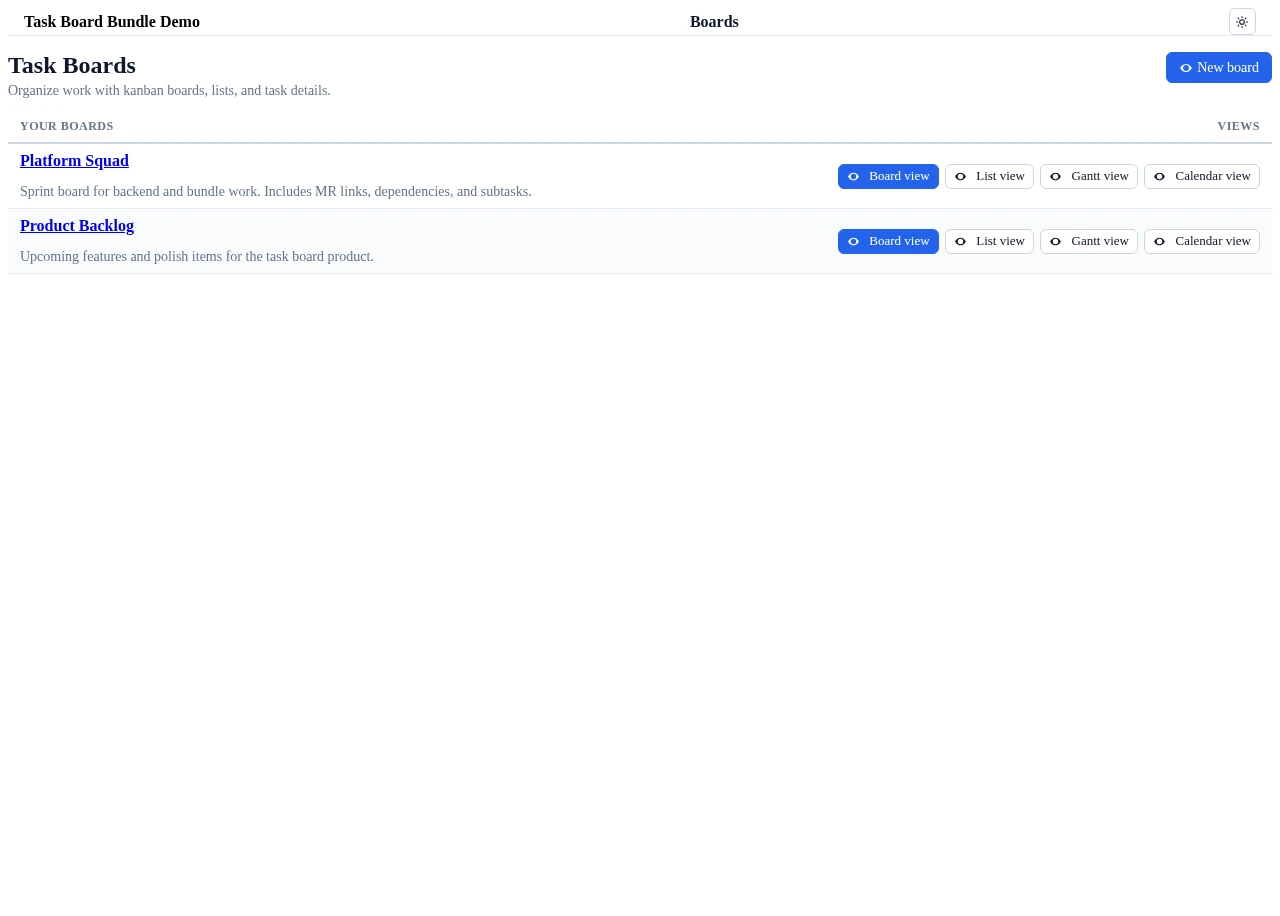
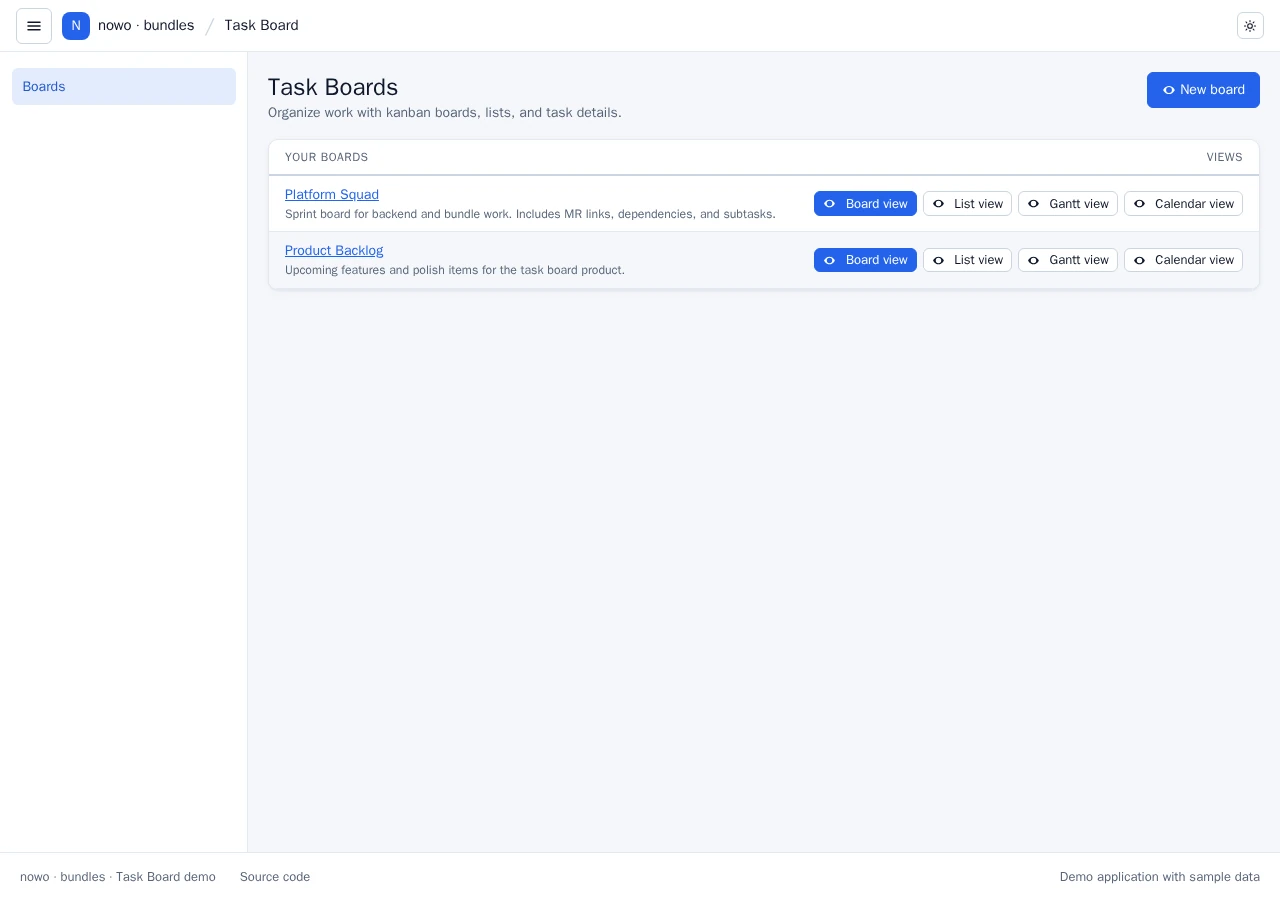
chore(demo): run the demo in UiKit's demo platform shell

diff --git a/demo/symfony8/e2e/tests/demo-platform.spec.ts b/demo/symfony8/e2e/tests/demo-platform.spec.ts
@@ -1,0 +1,200 @@
+import { test, expect, type Page } from '@playwright/test';
+import AxeBuilder from '@axe-core/playwright';
+
+/**
+ * UiKit demo platform shell (REQ-DEMO-014): layout grammar, demo styles, host theme tokens, framework classes, the
+ * closed phone drawer, 44 px touch targets and input borders on every demo page, plus axe (wcag2a / 2aa / 21a / 21aa,
+ * serious + critical = 0) in light and dark, desktop and phone, and the keyboard drawer pass.
+ */
+type Theme = 'light' | 'dark';
+type PageEntry = string | ((page: Page) => Promise<string>);
+
+async function prepare(_page: Page): Promise<void> {}
+
+/** The seeded "Platform Squad" board (ids change on every reseed) and its list / calendar views. */
+async function boardPath(page: Page): Promise<string> {
+  await page.goto('/tools/task-board');
+  await page.getByRole('link', { name: /Platform Squad/ }).first().click();
+  await page.locator('.nowo-task-board').waitFor();
+  return new URL(page.url()).pathname;
+}
+async function listPath(page: Page): Promise<string> {
+  return `${await boardPath(page)}/list`;
+}
+async function calendarPath(page: Page): Promise<string> {
+  return `${await boardPath(page)}/calendar`;
+}
+async function taskPath(page: Page): Promise<string> {
+  await boardPath(page);
+  await page.locator('.nowo-task-card__title').first().click();
+  await page.locator('.nowo-task-page').waitFor();
+  return new URL(page.url()).pathname;
+}
+
+
+async function setTheme(page: Page, theme: Theme): Promise<void> {
+  await page.evaluate((t) => {
+    document.documentElement.setAttribute('data-theme', t);
+    document.documentElement.setAttribute('data-bs-theme', t);
+  }, theme);
+}
+
+async function axe(page: Page): Promise<string[]> {
+  const result = await new AxeBuilder({ page }).withTags(['wcag2a', 'wcag2aa', 'wcag21a', 'wcag21aa']).exclude('.sf-toolbar').analyze();
+  return result.violations
+    .filter((v) => v.impact === 'serious' || v.impact === 'critical')
+    .map((v) => `${v.id}: ${v.nodes.map((n) => n.target.join(' ')).join(', ')}`);
+}
+
+/** The demo layout + style rules (docs/USAGE.md "Demo platform shell"; same function as the rollout brief's spec): layout grammar,
+ * no demo styles / host tokens / framework classes, closed drawer inert, 44 px targets on coarse pointers, input borders 3:1. */
+/* eslint-disable */
+// prettier-ignore
+function demoPlatformRules(): string[] {
+  const issues = [];
+  const main = document.querySelector('#nowo-ui-content');
+  const shell = document.querySelector('[data-testid="demo-platform"]');
+  if (!main || !shell) return ['no-demo-platform-shell'];
+  const visible = (el) => !!(el.offsetWidth || el.offsetHeight || el.getClientRects().length);
+  const carded = (el) => el.closest('.nowo-ui-card, [data-nowo-ui-region="table"], [data-nowo-ui-region="form"], .nowo-ui-form-panel, dialog');
+  const skip = (el) => el.closest('dialog, [data-nowo-ui-region="filters"], .nowo-ui-filters, .nowo-ui-page-header');
+
+  // Layout grammar.
+  main.querySelectorAll('table').forEach((t) => { if (!carded(t)) issues.push('table-outside-card'); });
+  main.querySelectorAll('form').forEach((f) => {
+    if (f.querySelector('input:not([type="hidden"]), select, textarea') && !carded(f) && !skip(f) && !f.closest('table')) issues.push('form-outside-card');
+  });
+  const primaries = [...main.querySelectorAll('.nowo-ui-btn--primary')].filter((b) => visible(b) && !b.closest('table, dialog, [data-nowo-ui-region="filters"], .nowo-ui-filters, form'));
+  if (primaries.length > 1) issues.push(`primary-buttons:${primaries.length}`);
+  const header = main.querySelector('.nowo-ui-page-header');
+  const flashes = main.querySelector('.nowo-ui-flashes');
+  if (header && flashes && (flashes.compareDocumentPosition(header) & Node.DOCUMENT_POSITION_FOLLOWING)) issues.push('flashes-before-page-header');
+  if (document.documentElement.scrollWidth > document.documentElement.clientWidth + 1) issues.push('page-scrolls-horizontally');
+
+  // Styles: no demo styles, no host theme tokens, no CDN / foreign stylesheet, no framework classes inside the shell.
+  document.querySelectorAll('style').forEach((s) => {
+    if (s.matches('[data-nowo-ui-theme-tokens], [data-nowo-ui-appearance]')) { issues.push('host-theme-tokens'); return; }
+    if (!/sf-toolbar|sfwdt|sf-minitoolbar|sf-display/.test(s.textContent || '') && !s.closest('[id^="sfwdt"], .sf-toolbar')) issues.push('style-element');
+  });
+  document.querySelectorAll('link[rel="stylesheet"]').forEach((l) => {
+    const path = new URL(l.href, location.href).pathname;
+    if (!path.startsWith('/bundles/') && !path.startsWith('/_wdt/') && !path.startsWith('/_profiler/')) issues.push(`stylesheet:${path}`);
+  });
+  const framework = /^(acme-.*|nav-tabs|nav-link|nav-item|alert|alert-.*|form-check.*|form-control|form-select|form-label|btn|btn-.*|card|card-.*|badge|row|col|col-.*|table|table-.*)$/;
+  shell.querySelectorAll('[class]').forEach((el) => {
+    for (const c of el.classList) { if (framework.test(c)) { issues.push(`framework-class:${c}`); break; } }
+  });
+
+  // Drawer: below 901 px a closed drawer is inert and the burger says so.
+  const aside = shell.querySelector('[data-nowo-ui-aside]');
+  if (aside && window.innerWidth < 901) {
+    const open = shell.classList.contains('is-aside-open-mobile');
+    if (!open && !aside.hasAttribute('inert')) issues.push('drawer-not-inert');
+    shell.querySelectorAll('[data-nowo-ui-burger]').forEach((b) => {
+      if (visible(b) && b.getAttribute('aria-expanded') !== (open ? 'true' : 'false')) issues.push('burger-state');
+    });
+  }
+
+  // Touch: 44 px targets on coarse pointers (checkbox / radio 24 px, their label carries the 44 px row).
+  if (window.matchMedia('(pointer: coarse)').matches) {
+    const controls = [...shell.querySelectorAll('.nowo-ui-btn, button, summary, input:not([type="hidden"]), select, textarea, [role="tab"], .nowo-ui-aside__link, .nowo-ui-demo-platform__locale')]
+      .filter((el) => visible(el) && !el.closest('[inert], table'));
+    for (const el of controls) {
+      const r = el.getBoundingClientRect();
+      const small = el.matches('input[type="checkbox"], input[type="radio"]') ? r.height < 24 || r.width < 24 : r.height < 43.5;
+      if (small) { issues.push(`target-under-44px:${(el.className && String(el.className).split(' ')[0]) || el.tagName.toLowerCase()}`); }
+    }
+  }
+
+  // Inputs: boundary 3:1 or more against the surface behind them (WCAG 1.4.11).
+  const rgb = (c) => { const m = c.match(/[\d.]+/g); return m ? m.slice(0, 4).map(Number) : null; };
+  const lum = (c) => { const v = c.slice(0, 3).map((x) => { const s = x / 255; return s <= 0.03928 ? s / 12.92 : ((s + 0.055) / 1.055) ** 2.4; }); return 0.2126 * v[0] + 0.7152 * v[1] + 0.0722 * v[2]; };
+  const bgOf = (el) => { for (let n = el.parentElement; n; n = n.parentElement) { const c = rgb(getComputedStyle(n).backgroundColor); if (c && (c.length < 4 || c[3] > 0)) return c; } return [255, 255, 255]; };
+  shell.querySelectorAll('input:not([type="hidden"], [type="checkbox"], [type="radio"]), select, textarea').forEach((el) => {
+    if (!visible(el) || el.closest('[inert]')) return;
+    const border = rgb(getComputedStyle(el).borderTopColor);
+    if (!border) return;
+    const a = lum(border); const b = lum(bgOf(el));
+    if ((Math.max(a, b) + 0.05) / (Math.min(a, b) + 0.05) < 3) issues.push(`input-border-under-3:1:${el.id || el.name || el.tagName.toLowerCase()}`);
+  });
+
+  return [...new Set(issues)];
+}
+
+
+const PAGES: PageEntry[] = ['/tools/task-board', boardPath, listPath, calendarPath, taskPath];
+
+const BUNDLE_OWNED: Array<{ path: RegExp; rule: RegExp }> = [
+  // Bundle-owned (TaskBoard pages): forms and tables outside a card, extra primary buttons, Bootstrap-style form classes on the bundle's own forms, controls under 44 px on touch, field borders under 3:1, priority / status labels under AA contrast, board links whose aria-label does not contain the visible text.
+  { path: /^\/tools\/task-board/, rule: /^(form-outside-card|table-outside-card|primary-buttons|framework-class:(form-|btn)|target-under-44px|input-border-under-3:1|color-contrast|label-content-name-mismatch)/ },
+];
+
+/** Findings on a bundle's own page are reported as bundle-owned (not patched in the demo): they are filtered here, by path and rule. */
+function demo(url: string, issues: string[]): string[] {
+  const path = new URL(url).pathname;
+  return issues.filter((issue) => !BUNDLE_OWNED.some((o) => o.path.test(path) && o.rule.test(issue)));
+}
+
+async function resolvePath(page: Page, entry: PageEntry): Promise<string> {
+  return typeof entry === 'function' ? entry(page) : entry;
+}
+
+test.describe('demo platform rules', () => {
+  // Device-emulating projects (phone / iphone ...) set their own context: the viewport blocks below do it explicitly.
+  test.beforeEach(async ({}, testInfo) => {
+    test.skip(/phone/i.test(testInfo.project.name), 'viewport blocks set their own context');
+  });
+
+  test('desktop 1440 px', async ({ page }) => {
+    await page.setViewportSize({ width: 1440, height: 900 });
+    await prepare(page);
+    for (const path of PAGES) {
+      await page.goto(await resolvePath(page, path));
+      expect(demo(page.url(), await page.evaluate(demoPlatformRules)), page.url()).toEqual([]);
+    }
+  });
+
+  test.describe('phone 390 px, touch', () => {
+    test.use({ viewport: { width: 390, height: 844 }, isMobile: true, hasTouch: true });
+
+    test('rules on every page', async ({ page }) => {
+      await prepare(page);
+      for (const path of PAGES) {
+        await page.goto(await resolvePath(page, path));
+        expect(demo(page.url(), await page.evaluate(demoPlatformRules)), page.url()).toEqual([]);
+      }
+    });
+
+    test('keyboard drawer pass', async ({ page }) => {
+      await prepare(page);
+      await page.goto(await resolvePath(page, PAGES[0]));
+      const aside = page.locator('[data-nowo-ui-aside]');
+      await expect(aside).toHaveAttribute('inert', '');
+      const burger = page.locator('[data-nowo-ui-burger]').first();
+      await expect(burger).toHaveAttribute('aria-expanded', 'false');
+      await burger.focus();
+      await page.keyboard.press('Enter');
+      await expect(page.getByTestId('demo-platform')).toHaveClass(/is-aside-open-mobile/);
+      await expect(page.locator('[data-nowo-ui-aside] :focus')).toHaveCount(1);
+      await expect(page.locator('.nowo-ui-main')).toHaveAttribute('inert', '');
+      await expect(page.locator('html')).toHaveClass(/nowo-ui-drawer-open/);
+      await page.keyboard.press('Escape');
+      await expect(burger).toBeFocused();
+      await expect(aside).toHaveAttribute('inert', '');
+    });
+  });
+
+  for (const theme of ['light', 'dark'] as Theme[]) {
+    for (const [name, width] of [['desktop', 1440], ['phone', 390]] as const) {
+      test(`axe clean: ${name}, ${theme}`, async ({ page }) => {
+        await page.setViewportSize({ width, height: 900 });
+        await prepare(page);
+        for (const path of PAGES) {
+          await page.goto(await resolvePath(page, path));
+          await setTheme(page, theme);
+          expect(demo(page.url(), await axe(page)), page.url()).toEqual([]);
+        }
+      });
+    }
+  }
+});

diff --git a/demo/symfony8/e2e/tests/task-menus.spec.ts b/demo/symfony8/e2e/tests/task-menus.spec.ts
@@ -144,13 +144,13 @@ test('the focus toggle hides the shell header on the board, list, calendar and t
     const toggle = page.locator('[data-testid="nowo-task-focus-toggle"] [data-nowo-ui-focus-mode]');
     await expect(toggle).toHaveAttribute('data-nowo-ui-focus-area', 'tasks');
     await toggle.click();
-    await expect(page.getByTestId('demo-shell')).toHaveAttribute('data-focus-mode', 'on');
-    await expect(page.getByTestId('demo-masthead')).toBeHidden();
+    await expect(page.getByTestId('demo-platform')).toHaveAttribute('data-focus-mode', 'on');
+    await expect(page.locator('[data-testid="demo-platform"] > .nowo-ui-header, [data-testid="demo-platform"] header.nowo-ui-header').first()).toBeHidden();
     await expect(toggle).toHaveAttribute('aria-pressed', 'true');
     await page.locator('body').click({ position: { x: 2, y: 2 } });
     await page.keyboard.press('Escape');
-    await expect(page.getByTestId('demo-shell')).not.toHaveAttribute('data-focus-mode', /on|fullscreen/);
-    await expect(page.getByTestId('demo-masthead')).toBeVisible();
+    await expect(page.getByTestId('demo-platform')).not.toHaveAttribute('data-focus-mode', /on|fullscreen/);
+    await expect(page.locator('[data-testid="demo-platform"] > .nowo-ui-header, [data-testid="demo-platform"] header.nowo-ui-header').first()).toBeVisible();
   }
   await page.goto(`${board}?view=board`);
   await page.locator('.nowo-task-card__title').first().click();

diff --git a/demo/symfony8/e2e/tests/screenshots.spec.ts b/demo/symfony8/e2e/tests/screenshots.spec.ts
@@ -5,10 +5,9 @@ import { resolve } from 'node:path';
 /** REQ-DEMO-013: README screenshots (captured as PNG, converted to WebP by scripts/to-webp.mjs). */
 const outDir = process.env.SCREENSHOT_DIR ? resolve(process.env.SCREENSHOT_DIR) : resolve(__dirname, '../../../../docs/images/demo');
 
-/** Wait until the Symfony Web Debug Toolbar has loaded, then hide it so it does not cover the page. */
+/** The Symfony Web Debug Toolbar is not part of the demo platform: hide it so it never appears in a capture. */
 async function settle(page: Page): Promise<void> {
-  await page.waitForSelector('.sf-toolbar', { state: 'visible', timeout: 20000 }).catch(() => undefined);
-  await page.evaluate(() => document.querySelectorAll('.sf-toolbar').forEach((el) => ((el as HTMLElement).style.display = 'none')));
+  await page.addStyleTag({ content: '.sf-toolbar,.sf-minitoolbar,[id^="sfwdt"]{display:none!important}' });
   await page.waitForTimeout(300);
 }
 

diff --git a/docs/CHANGELOG.md b/docs/CHANGELOG.md
@@ -123,6 +123,10 @@ and this project adheres to [Semantic Versioning](https://semver.org/spec/v2.0.0
 
 ## [Unreleased]
 
+### Changed
+
+- Demo: runs in UiKit's demo platform shell (`nowo-tech/ui-kit-bundle` ^2.60; shared top bar, aside, page header and section cards; no demo stylesheet or `<style>`). Demo only, no bundle change.
+
 ## [2.26.1] - 2026-11-20
 
 ### Fixed
